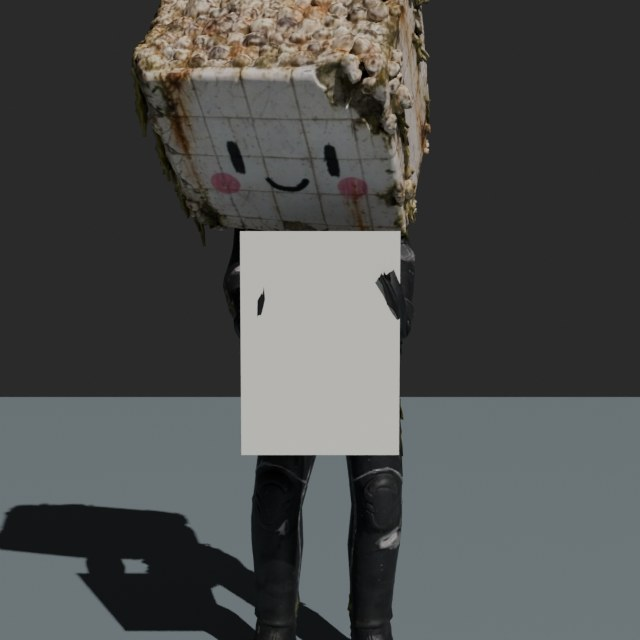
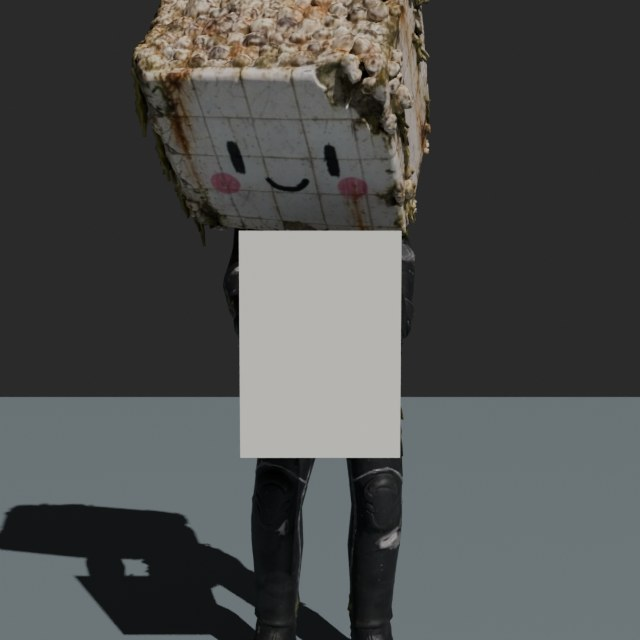
Bambino col cubo, porge: il foglio appoggiato alle dita (3 mm), nessuna punta oltre
Il foglio si mette davanti alla punta delle mani più avanzata dentro la sua
sagoma, a 3 mm, misurato sulla pelle vera fotogramma per fotogramma;
--controlla lo verifica (porge_tiene: 3,0 mm, 0 punte oltre). Render rifatti.

Claude-Session: https://claude.ai/code/session_01YWTG1mGq714ESVViUmQhYw

diff --git a/tools/blender/bambini_storia.py b/tools/blender/bambini_storia.py
@@ -318,6 +318,36 @@ def metti_foglio(dove_w):
     bpy.context.view_layer.update()
 
 
+_MANI = []
+
+
+def indici_mani():
+    """I vertici della pelle delle mani (guanti, dita comprese)."""
+    if not _MANI:
+        gi = {g.index: g.name for g in corpo.vertex_groups}
+        _MANI.extend(v.index for v in corpo.data.vertices
+                     if any(gi[g.group] in ('LeftHand', 'RightHand') and g.weight > 0.3 for g in v.groups))
+    return _MANI
+
+
+def mani_sul_foglio(centro):
+    """Le punte delle mani dentro la sagoma del foglio (A4 verticale, faccia avanti: -Y) messo in centro: quanto sta
+    avanti la più avanzata (y minima, m). None se nessuna."""
+    vs = misura_pelle()
+    ys = [vs[i].y for i in indici_mani()
+          if abs(vs[i].x - centro.x) <= A4[0] / 2 and abs(vs[i].z - centro.z) <= A4[1] / 2]
+    return min(ys) if ys else None
+
+
+def appoggia(centro):
+    """Il foglio appoggiato alle dita: davanti alla punta più avanzata dentro la sua sagoma, a 3 mm (nessuna punta lo
+    passa, il contatto entro mezzo centimetro)."""
+    y = mani_sul_foglio(centro)
+    if y is None:
+        return centro
+    return Vector((centro.x, y - 0.003, centro.z))
+
+
 def porge():
     nuova_azione('porge')
     n = int(round(1.2 * FPS))
@@ -326,14 +356,14 @@ def porge():
         k = liscio(u, 0.0, 1.0)
         dove = posa_porge(f / FPS, k=k, trema=k)
         if dove is not None:
-            metti_foglio(dove)
+            metti_foglio(appoggia(dove))
         chiavi(f)
     nuova_azione('porge_tiene')
     n = 4 * FPS
     for f in range(n + 1):
         t = f / FPS + 1.2          # (prosegue da dove finisce porge: il respiro e il tremare continuano)
         dove = posa_porge(t, k=1.0)
-        metti_foglio(dove)
+        metti_foglio(appoggia(dove))
         chiavi(f)
 
 
@@ -499,6 +529,22 @@ def controlla():
             log(f'KO {nome}: la matita si stacca dal foglio'); ko += 1
         if nome in ('disegna', 'alza_testa') and (peggio['testa_mani'] < 0.02 or peggio['testa_foglio'] < 0.05):
             log(f'KO {nome}: il cubo tocca le mani o il foglio'); ko += 1
+    # il foglio che porge: appoggiato alle dita (contatto entro 5 mm), nessuna punta oltre il foglio
+    arm.animation_data.action = bpy.data.actions['porge_tiene']
+    vicino, lontano, oltre = 9.0, 0.0, 0
+    for f in range(0, 4 * FPS + 1, 4):
+        sc.frame_set(f)
+        c = wa(pb_('foglio').head)
+        vs = misura_pelle()
+        ds = [vs[i].y - c.y for i in indici_mani()
+              if abs(vs[i].x - c.x) <= A4[0] / 2 and abs(vs[i].z - c.z) <= A4[1] / 2]
+        if ds:
+            vicino = min(vicino, min(ds))
+            lontano = max(lontano, min(ds))
+            oltre += sum(1 for d in ds if d < 0.0)
+    log(f'porge_tiene: dalla punta più vicina al foglio da {vicino * 1000:.1f} a {lontano * 1000:.1f} mm; punte oltre il foglio {oltre}')
+    if oltre or lontano > 0.005:
+        log('KO porge_tiene: il foglio non è appoggiato alle dita'); ko += 1
     log('CONTROLLO STORIA:', 'ok' if ko == 0 else f'{ko} KO')
     return ko
 
